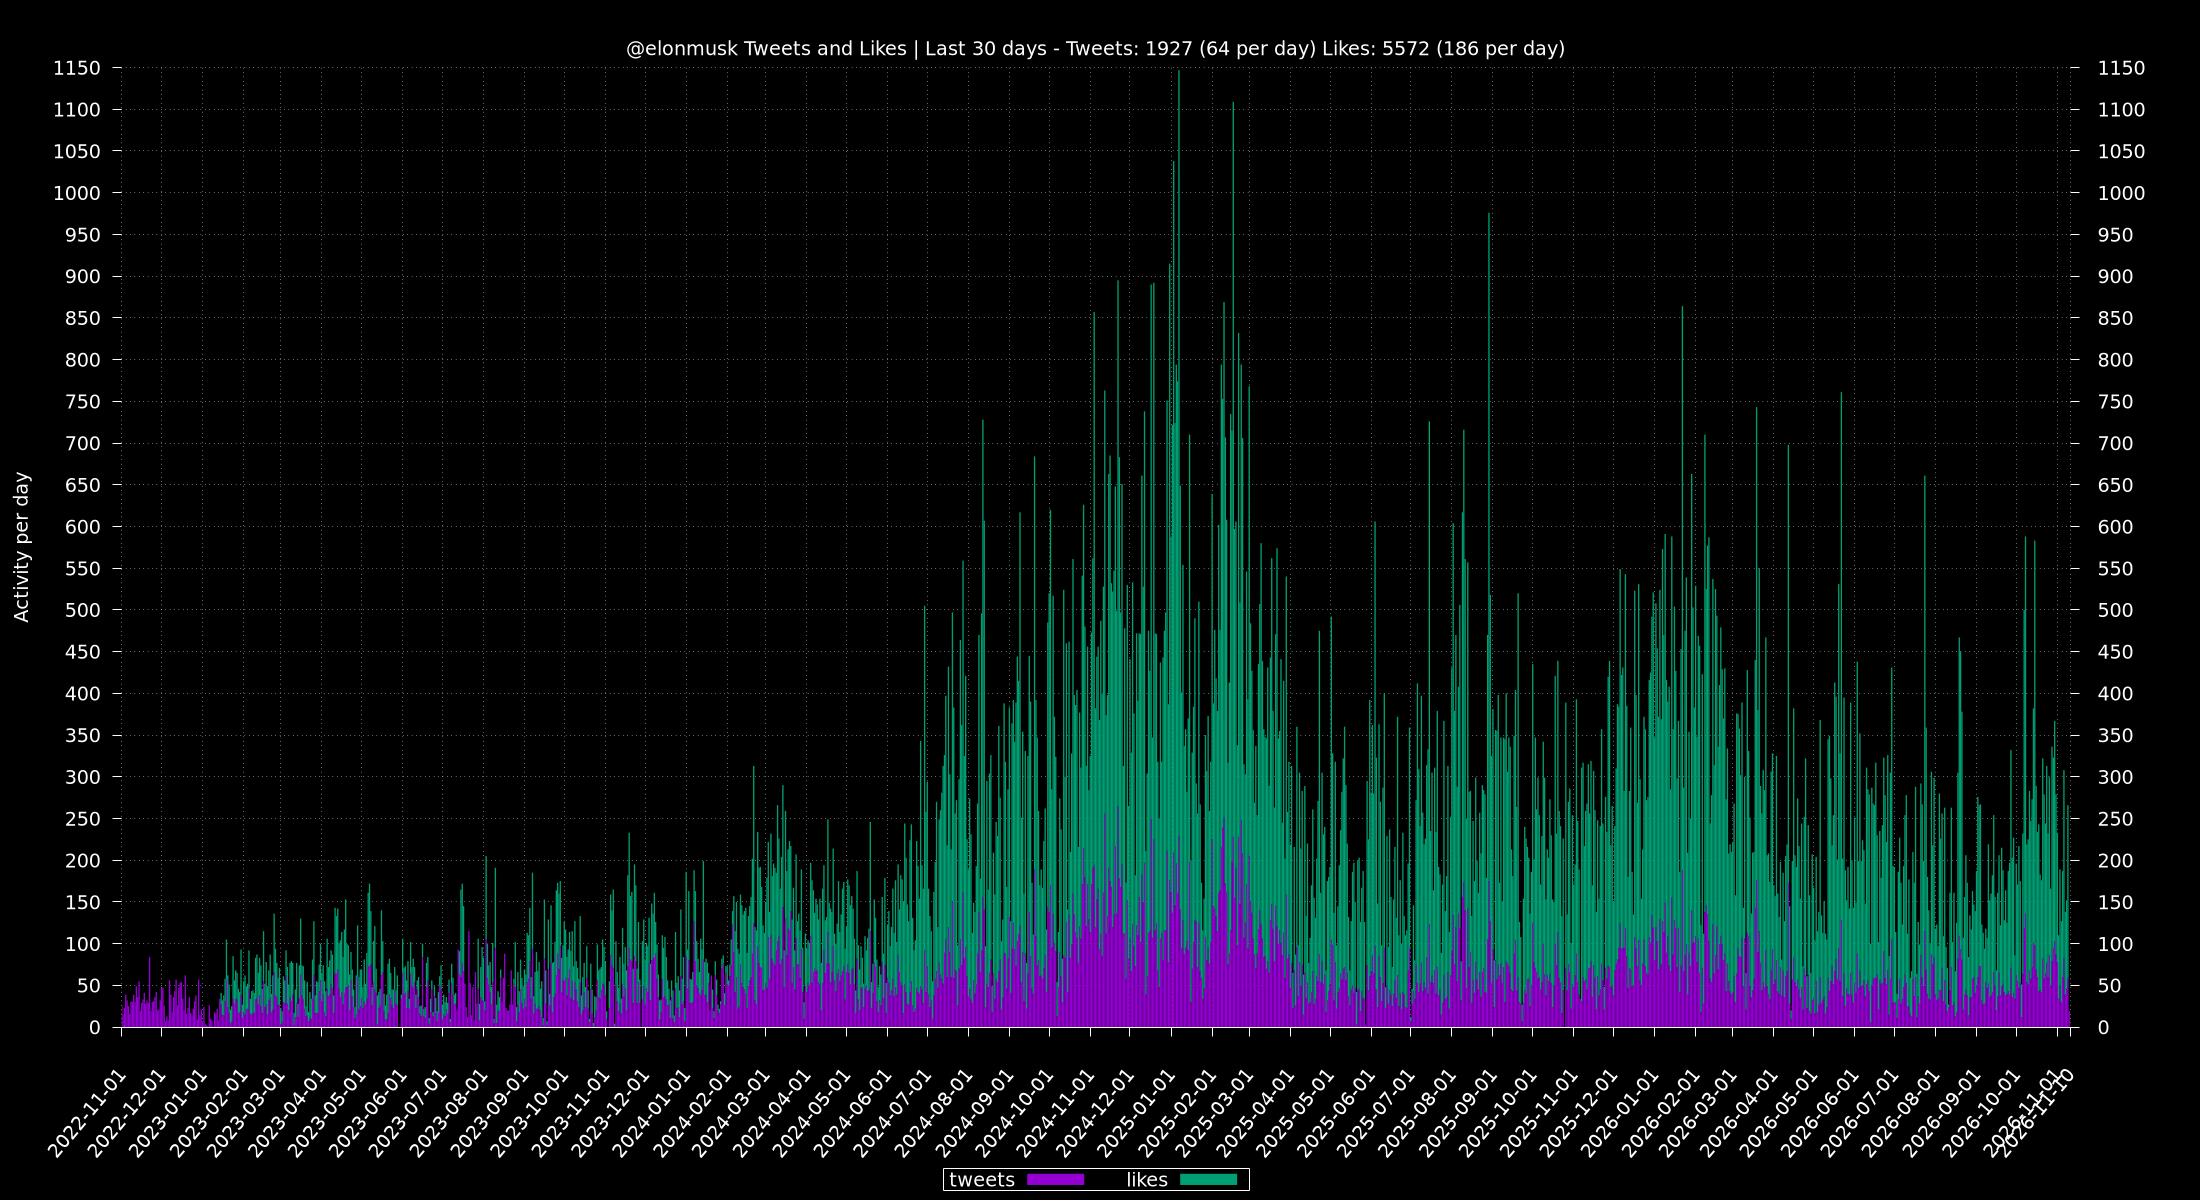
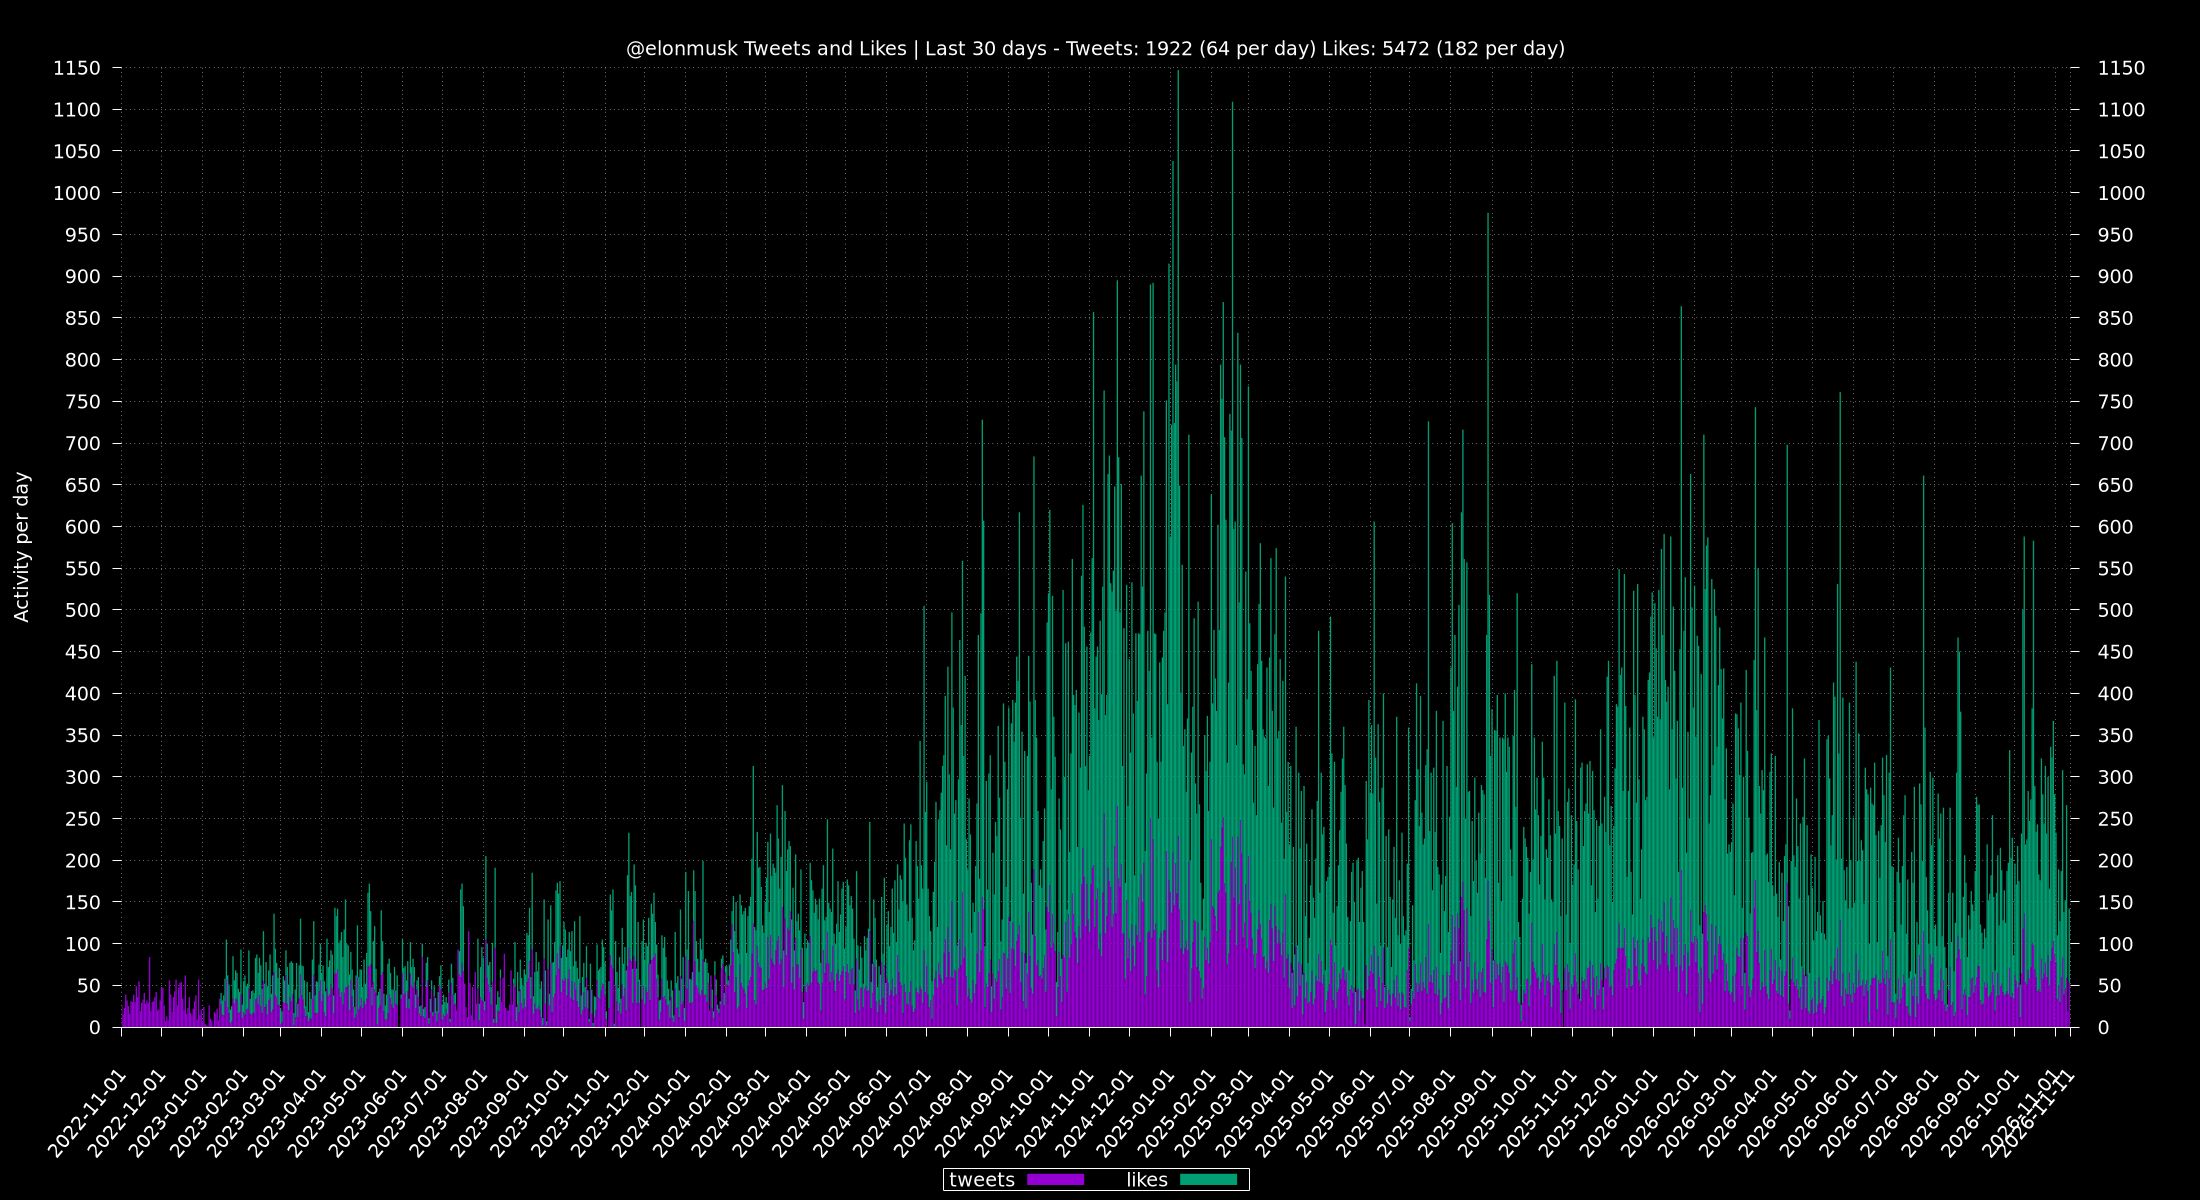
update via cron

Changed region(s): [[0.1545, 0.1542, 0.9582, 0.8633], [0.1545, 0.8942, 0.9273, 0.9558]]

diff --git a/totals/README.md b/totals/README.md
@@ -1,6 +1,6 @@
 ## Last 30 Days
-Tweets: 1995 (64 per day)\
-Likes: 5787 (187 per day)
+Tweets: 1980 (64 per day)\
+Likes: 5661 (183 per day)
 
 ## 24 Hours
 Max: [**341**](../misc/most-tweets_24-hr.csv) - From `2024-11-23 14:29:53 CST` To `2024-11-24 14:28:44 CST`
